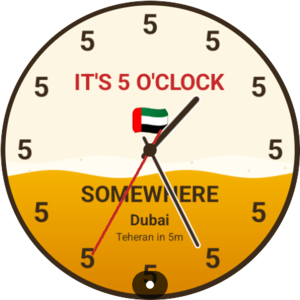
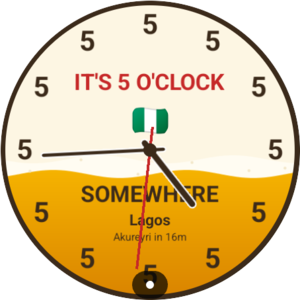
New README screenshots
Retaken with Iceland and Nigeria instead of Russia, now showing the
brewery carousel; distances blurred again.

Changed region(s): [[0.12, 0.3, 0.69, 0.9], [0.3, 0.81, 0.33, 0.87]]

diff --git a/README.md b/README.md
@@ -12,12 +12,12 @@ Eine nicht ganz ernst gemeinte App für Smartwatch und Handy: Sie zeigt, in welc
 Inspiriert von den Wanduhren, auf denen statt 1–12 überall nur die 4 steht. Die englische Ausgabe folgt dem Spruch *„It's five o'clock somewhere“* und rechnet deshalb mit 17 Uhr.
 
 <p align="center">
-  <img src="docs/screenshots/phone.png" width="260" alt="Handy-App: Gerade 16 Uhr in Moskau, Russland, lokales Bier Baltika Nr. 7, nächste Runde Athen und Kairo">
+  <img src="docs/screenshots/phone.png" width="260" alt="Handy-App: Gerade 16 Uhr in Akureyri, Island, Brauerei Einstök Ölgerð, nächste Runde Praia">
   &nbsp;
-  <img src="docs/screenshots/widget.png" width="200" alt="Widget: Gerade 16 Uhr in Moskau, Baltika Nr. 7, um 15:00 Athen">
+  <img src="docs/screenshots/widget.png" width="200" alt="Widget: Gerade 16 Uhr in Akureyri, Einstök Ölgerð, um 18:00 Praia">
 </p>
 <p align="center">
-  <img src="docs/screenshots/watch-app.png" width="200" alt="Uhren-App als volles Glas: It's 4 p.m. in Moscow">
+  <img src="docs/screenshots/watch-app.png" width="200" alt="Uhren-App als volles Glas: It's 4 p.m. in Akureyri">
   <img src="docs/screenshots/watch-face-vier.png" width="200" alt="Zifferblatt Kein Bier vor Vier mit zwölf Vieren">
   <img src="docs/screenshots/watch-face-five.png" width="200" alt="Zifferblatt It's 5 o'clock somewhere mit zwölf Fünfen">
 </p>
